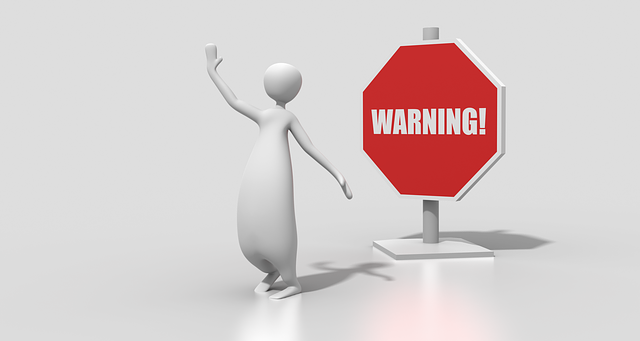
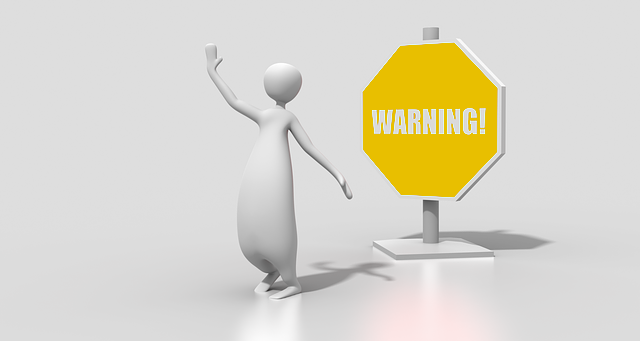
add file functions.h to main.cpp and change the warning sign image

Changed region(s): [[0.5625, 0.1173, 0.7812, 0.5865]]

diff --git a/code/road_device/main.cpp b/code/road_device/main.cpp
@@ -6,7 +6,13 @@
 #include <iostream>
 #include <unistd.h>
 #include <sys/wait.h>
-#include "functions.h"
+
+
+// Camera functions.
+extern int takeRoad(void); // ( In camera/camera.cpp )
+// Communication functions.
+extern void regSignals(void); // ( In commuication/Sigdef.cpp )
+
 
 using namespace std;
 
@@ -24,8 +30,7 @@ int main(int argc, char** argv)
             takeRoad();
             cout << "Closing the camera process ..." << endl;
             break;
-        default : // Alert
-            // Send Warning Message until the camera is shut down
+        default : // Send Warning Message until the camera is shut down
             regSignals();
             while(waitpid(pid, NULL, 0) != pid);
             cout<<"Closing the communication process ..."<<endl;

diff --git a/code/road_device/camera/CamDef.h b/code/road_device/camera/CamDef.h
@@ -23,6 +23,8 @@ namespace CamDef {
     const std::string learnedRoadImg("camera/scenario_road.png");
     // const std::string learnedMask("camera/learnedMask_opt.png");
     // const std::string learnedRoadImg("camera/learnedRoadImg_opt.png");
+
+    // Windows name
     const std::string originalVideo("origin");
     const std::string mask("mask");
     const std::string roadImg("roadImg");

diff --git a/code/road_device/communication/ConnectServer.cpp b/code/road_device/communication/ConnectServer.cpp
@@ -34,7 +34,7 @@ void ConnectServer::sendMessage(const string message) {
     char buf[MESSAGE_SIZE];
 
     bcopy(message.c_str(), buf, MESSAGE_SIZE);
-    if( sendto(sd, buf, strlen(buf)+1, 0, (struct sockaddr *)&sin, sizeof(sin)) == -1 ) {
+    if( sendto(sd, buf, strlen(buf), 0, (struct sockaddr *)&sin, sizeof(sin)) == -1 ) {
         perror("sendto");
         exit(1);
     }
